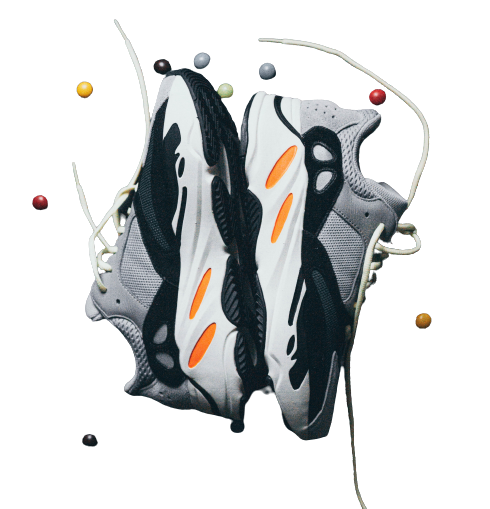
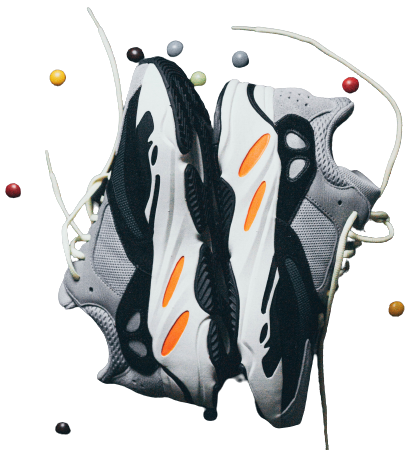
adcioei um card animado na imagem, adcionei mais uma imagem e alterei o tamanho da anterior, alteração de cor do h1

diff --git a/css/estilo.css b/css/estilo.css
@@ -13,28 +13,20 @@ body{
     background: linear-gradient(
     to left, #2d0048, #dd1bff,#4de6f6);
     font-family: 'Alexandria', Arial, Helvetica, sans-serif;
-
+    overflow: hidden;
 }
 
 h1 {
     font-size: 72px;
     margin-left: 250px;
     margin-top: 100px;
-    background: linear-gradient(#fff, #fec166, #fff
+    background: linear-gradient( #fec166, #dd1bff
         );
         -webkit-background-clip: text;
         -webkit-text-fill-color: transparent;
 }
 
-img {
-    display: block;
-    float: right;
-    margin-right: 50px;
-    width: 500px;
 
-    
-
-}
 
 .aside_login{
     float: left;
@@ -221,3 +213,60 @@ article{
     margin-top: 0px;
     margin-bottom: 1px;
 }
+
+/*card*/
+
+
+.flip-card {
+ 
+    float: right;
+    margin-right: 50px;
+    width: 500px;
+    /*card size*/
+    height: 400px;
+    perspective: 1000px;
+    background-color: transparent;
+  }
+
+  .flip-card-inner {
+    position: relative;
+    width: 100%;
+    height: 100%;
+    text-align: center;
+    transition: transform 0.6s;
+    transform-style: preserve-3d;
+  }
+  .flip-card:hover .flip-card-inner {
+    transform: rotateY(180deg);
+  }
+  .flip-card-front,
+  .flip-card-back {
+    position: absolute;
+    width: 100%;
+    height: 100%;
+    -webkit-backface-visibility: hidden;
+    backface-visibility: hidden;
+    border-radius: 16px;
+  }
+  .flip-card-front {
+    background-image: linear-gradient(45deg, #6f04d9, #d9048e);
+  }
+  .flip-card-front img {
+    width: 300px;
+    margin-top: 1rem;
+  }
+  .flip-card-back {
+    background-image: linear-gradient(315deg, #6f04d9, #8a045c);
+    color: #ffffff;
+    transform: rotateY(180deg);
+  }
+  .flip-card-back img {
+    width: 300px;
+    margin-top: 1rem;
+  }
+  .flip-card-back h3 {
+    margin-bottom: 0.3rem;
+  }
+  .flip-card-back h1 {
+    margin: 1;
+  }

diff --git a/index.html b/index.html
@@ -31,9 +31,13 @@
        </section>
 
       
-
-       <aside>
-        <img src="img/tenis.png" alt="Imagem">
+       <aside class="flip-card">
+        <aside class="flip-card-inner">
+          <aside class="flip-card-front">
+            <img src="img/tenis.png" alt="Imagem">
+            </aside>
+       <aside class="flip-card-back">
+        <img src="img/branco1.png" alt="Imagem">
     </aside>
     
        
